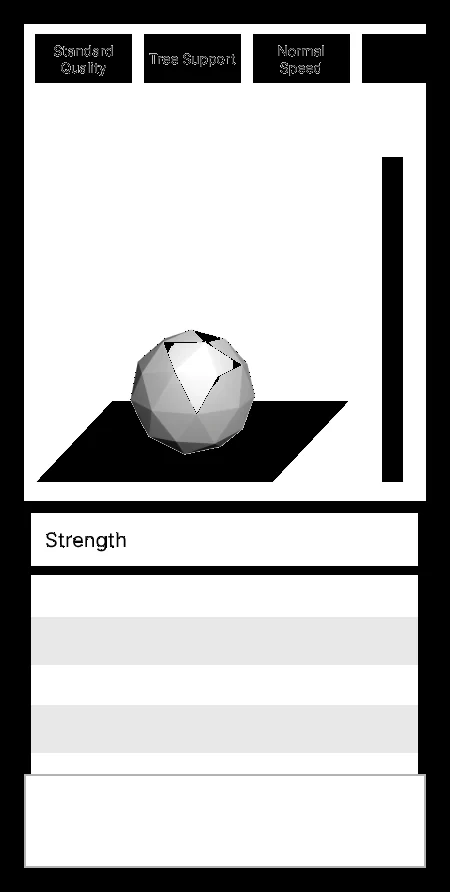
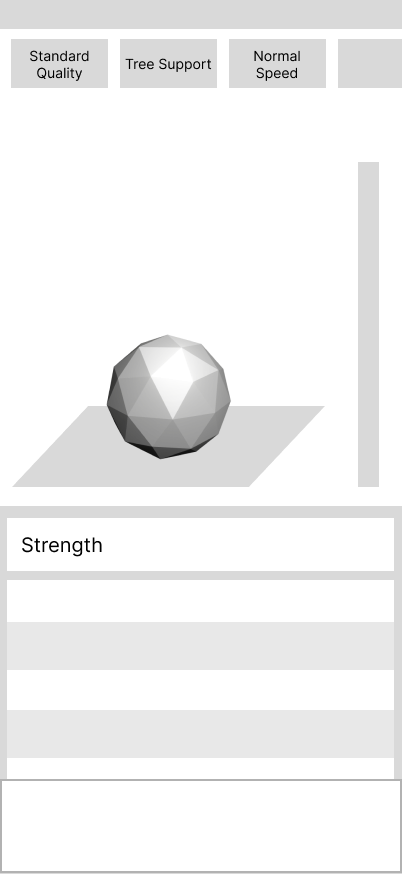
Put FlowPrint's lo-fi frames back on the Figma boards, and use the filament stack.
The machine and phone stills had been inverted onto black. Restore the light wireframes, and swap the filament lesson for the Group 4 export.

diff --git a/src/components/project-detail/FlowPrintModules.tsx b/src/components/project-detail/FlowPrintModules.tsx
@@ -169,7 +169,7 @@ export function FlowPrintRequirements() {
     <CardGrid
       items={requirements}
       header="Design Requirements"
-      colsClass="grid-cols-1 sm:grid-cols-2 lg:grid-cols-5"
+      colsClass="grid-cols-1 sm:grid-cols-2 [&>*:last-child]:sm:col-span-2"
     />
   );
 }
